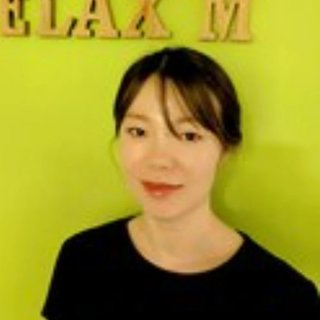
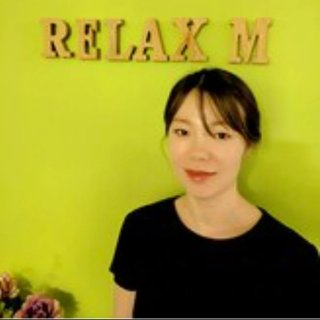
fix: shift Karaki Rei photo crop down without zooming

diff --git a/ko.html b/ko.html
@@ -3376,7 +3376,7 @@
         <p class="staff-bio">정성스럽게 힐링의 시간을 선사해 드립니다!</p>
       </div>
       <div class="staff-card reveal">
-        <div class="staff-avatar"><img src="staff/KarakiRei.jpg?v=2" alt="Karaki Rei"></div>
+        <div class="staff-avatar"><img src="staff/KarakiRei.jpg?v=3" alt="Karaki Rei"></div>
         <p class="staff-name">Karaki Rei</p>
         <p class="staff-bio">부드럽고 정성스럽게 풀어 드립니다!</p>
       </div>

diff --git a/en.html b/en.html
@@ -3376,7 +3376,7 @@
         <p class="staff-bio">I'll carefully ease you into a moment of true relaxation!</p>
       </div>
       <div class="staff-card reveal">
-        <div class="staff-avatar"><img src="staff/KarakiRei.jpg?v=2" alt="Karaki Rei"></div>
+        <div class="staff-avatar"><img src="staff/KarakiRei.jpg?v=3" alt="Karaki Rei"></div>
         <p class="staff-name">Karaki Rei</p>
         <p class="staff-bio">I'll gently and carefully ease your tension!</p>
       </div>

diff --git a/index.html b/index.html
@@ -3376,7 +3376,7 @@
         <p class="staff-bio">癒しのひととき丁寧にほぐします！</p>
       </div>
       <div class="staff-card reveal">
-        <div class="staff-avatar"><img src="staff/KarakiRei.jpg?v=2" alt="辛木 玲"></div>
+        <div class="staff-avatar"><img src="staff/KarakiRei.jpg?v=3" alt="辛木 玲"></div>
         <p class="staff-name">辛木 玲</p>
         <p class="staff-bio">優しく丁寧にほぐします！</p>
       </div>

diff --git a/zh-CN.html b/zh-CN.html
@@ -3376,7 +3376,7 @@
         <p class="staff-bio">用心为您带来疗愈时光！</p>
       </div>
       <div class="staff-card reveal">
-        <div class="staff-avatar"><img src="staff/KarakiRei.jpg?v=2" alt="Karaki Rei"></div>
+        <div class="staff-avatar"><img src="staff/KarakiRei.jpg?v=3" alt="Karaki Rei"></div>
         <p class="staff-name">Karaki Rei</p>
         <p class="staff-bio">温柔细致地为您舒缓！</p>
       </div>

diff --git a/zh-TW.html b/zh-TW.html
@@ -3376,7 +3376,7 @@
         <p class="staff-bio">用心為您帶來療愈時光！</p>
       </div>
       <div class="staff-card reveal">
-        <div class="staff-avatar"><img src="staff/KarakiRei.jpg?v=2" alt="Karaki Rei"></div>
+        <div class="staff-avatar"><img src="staff/KarakiRei.jpg?v=3" alt="Karaki Rei"></div>
         <p class="staff-name">Karaki Rei</p>
         <p class="staff-bio">溫柔細緻地為您舒緩！</p>
       </div>
